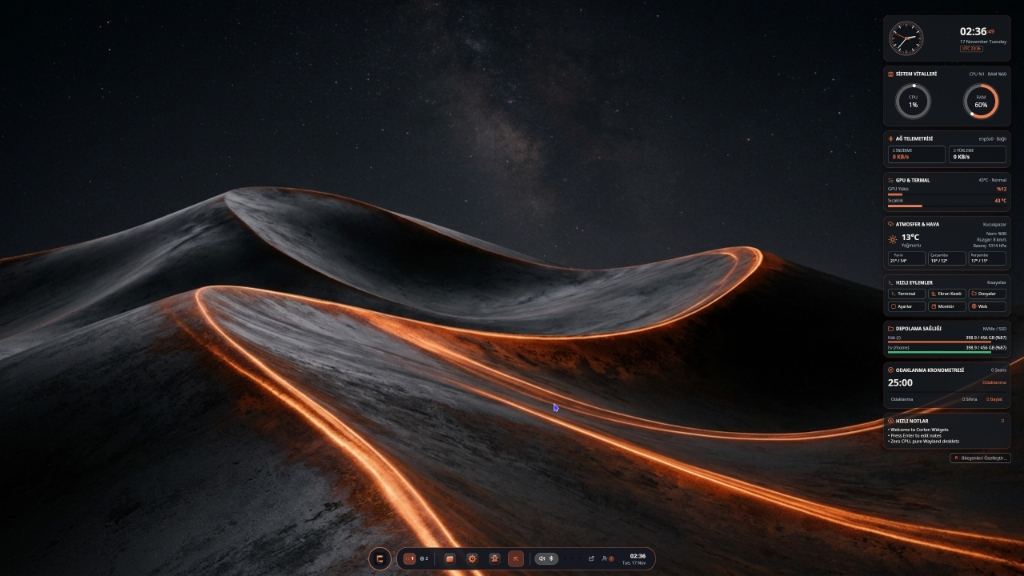
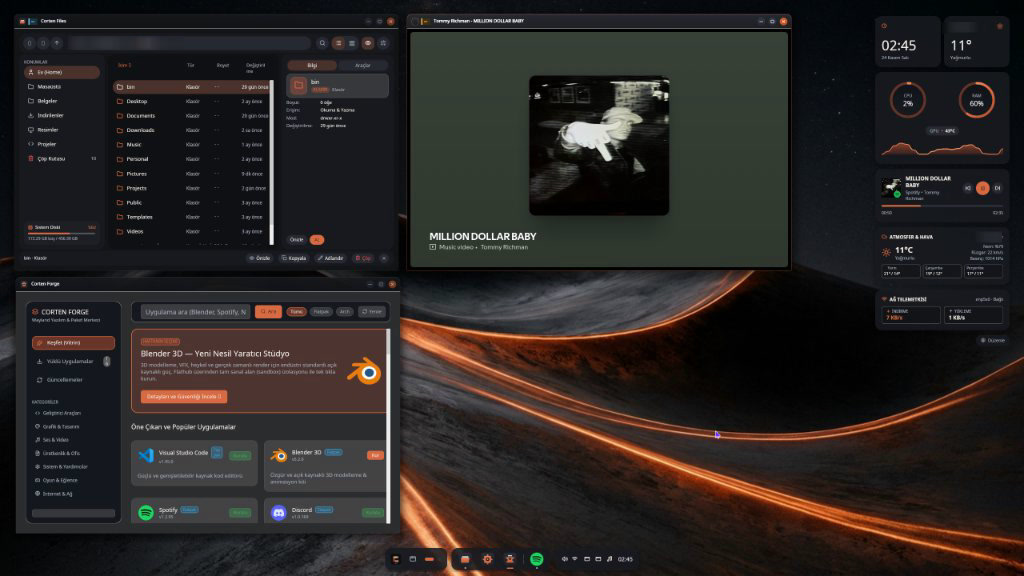
docs: rewrite README, update blurred desktop screenshot, and bump version to 0.7.0

diff --git a/README.md b/README.md
@@ -1,200 +1,125 @@
-<div align="center">
-
-<img src="assets/logo_256.png" alt="Corten Desktop Logo" width="128" />
-
 # Corten Desktop
 
-**A lightweight Wayland desktop environment and compositor written in Rust (Smithay + Iced).**
+A Wayland compositor and desktop shell written in Rust using [Smithay](https://github.com/Smithay/smithay) and [Iced](https://github.com/iced-rs/iced).
 
-[![Version](https://img.shields.io/badge/Release-v0.6.0-d96b43.svg?style=flat-square)](https://github.com/Shura5860/corten-desktop/releases/tag/v0.6.0)
-[![Language](https://img.shields.io/badge/Language-Rust%202024-orange.svg?style=flat-square&logo=rust)](https://www.rust-lang.org)
-[![Display Protocol](https://img.shields.io/badge/Protocol-Wayland-blue.svg?style=flat-square&logo=wayland)](https://wayland.freedesktop.org/)
-[![Compositor Engine](https://img.shields.io/badge/Engine-Smithay%200.7-red.svg?style=flat-square)](https://github.com/Smithay/smithay)
-[![UI Toolkit](https://img.shields.io/badge/Shell%20Toolkit-Iced%200.13%20(tiny--skia)-blueviolet.svg?style=flat-square)](https://github.com/iced-rs/iced)
-[![Clippy](https://img.shields.io/badge/Clippy-Zero%20Warnings-brightgreen.svg?style=flat-square)](#-building-from-source)
-[![License](https://img.shields.io/badge/License-GPL--3.0-green.svg?style=flat-square)](LICENSE)
+![Corten Desktop running on Wayland](assets/screenshots/corten-desktop.jpg)
 
-<br />
+## About
 
-<p align="center">
-  <a href="#-overview">Overview</a> •
-  <a href="#-screenshots">Screenshots</a> •
-  <a href="#-workspace-components">Components</a> •
-  <a href="#-installation">Installation</a> •
-  <a href="#-building-from-source">Build</a> •
-  <a href="#-keyboard-shortcuts">Shortcuts</a>
-</p>
+Corten Desktop is a single-workspace Wayland desktop environment. The compositor (`corten-compositor`) is built on Smithay 0.7 with DRM/KMS and nested winit backends, XWayland support, and both floating and tiling layouts. Shell components and built-in utilities use Iced 0.13 with the `tiny-skia` software renderer to keep idle GPU memory usage low, communicating over D-Bus (`zbus`) and a Unix domain socket (`cortenctl`).
 
----
+This is an independent personal project under active development.
 
-</div>
+### Current Status
 
-<br />
-
-![Corten Desktop Hero](assets/screenshots/corten-desktop.jpg)
-
-<br />
-
-## Overview
-
-Corten Desktop is a full Wayland desktop environment built inside a single Rust Cargo workspace.
-
-The goal of the project is simple: provide a lightweight desktop session where the compositor, panel/dock, lock screen, file manager, settings app, notifications, and desktop utilities all work together out of the box without high resource usage or needing to manually wire together a dozen separate tools and scripts.
-
-* **Compositor (`corten-compositor`):** Built on `Smithay 0.7` with DRM/KMS direct scanout, XWayland support, Dual-Kawase blur shaders, VRR, tearing control, and both floating and tiling window layouts (Master-Stack, BSP, Monocle, and Scrollable strip).
-* **Desktop Shell & Apps (`Iced 0.13`):** Shell surfaces and built-in applications use `Iced` with the `tiny-skia` software renderer so background desktop utilities stay light on system VRAM.
-* **Unified IPC (`corten-ipc`):** Components communicate over D-Bus (`zbus`) and a Unix domain socket controllable via `cortenctl`.
-
-### Development Note
-
-Corten Desktop is an independent personal project built with AI-assisted development tools—especially on the UI/shell side—while architecture, compositor integration, testing, and direction are driven manually. Design feedback, UI/UX suggestions, and compositor reviews are very welcome.
-
----
-
-## Screenshots
-
-### Desktop, Floating Dock & Widgets
-![Corten Clean Desktop](assets/screenshots/corten-desktop.jpg)
-
-### Package Manager (`corten-forge`) & Local Assistant (`corten-ai`)
-![Corten Forge & AURA](assets/screenshots/corten-forge-aura.jpg)
-
-### File Manager (`corten-files`) & System Settings (`corten-settings`)
-![Corten Files & Settings](assets/screenshots/corten-files-settings.jpg)
-
----
+- Tested on Linux with DRM/KMS (TTY session via `corten-session`) and nested inside existing Wayland sessions.
+- Floating, Master-Stack, BSP, Monocle, and Scrollable tiling layouts are implemented.
+- Shell components (3-island dock, control center, app drawer, notifications, MPRIS/telemetry desktop widgets, lock screen, file manager, settings, package manager front-end) run as separate processes supervised by `corten-session`.
+- UI strings are currently primarily in Turkish; full i18n coverage is still in progress.
+- Expect rough edges and breaking config changes between minor releases.
 
 ## Workspace Components
 
-| Crate | Role |
+| Crate | Description |
 | :--- | :--- |
-| `corten-compositor` | Wayland compositor (DRM/KMS + winit nested mode, XWayland, floating & tiling layouts) |
-| `corten-session` | Session supervisor and environment launcher |
-| `corten-panel` | Floating capsule dock, upward app drawer, system tray (SNI), and quick controls |
+| `corten-compositor` | Wayland compositor (Smithay 0.7, DRM/KMS + winit, XWayland, floating & tiling) |
+| `corten-session` | Session supervisor and startup orchestrator |
+| `corten-panel` | Bottom/top 3-island dock, app drawer, SNI system tray, calendar, control center |
+| `corten-widgets` | Desktop side panel (clock, weather, CPU/RAM/GPU telemetry, D-Bus MPRIS player, network) |
 | `corten-launcher` | Application launcher, calculator, clipboard history, and file search |
-| `corten-lock` | `ext-session-lock-v1` lock screen with PAM authentication |
-| `corten-greeter` | `greetd` login screen |
-| `corten-files` | Dual-pane file manager with quick preview and integrated terminal drawer |
-| `corten-settings` | System settings (display topology, audio, network, Bluetooth, themes, keybindings) |
-| `corten-notify` | Desktop notification daemon (`org.freedesktop.Notifications`) |
-| `corten-widgets` | Desktop widgets (clock, weather, media player, GPU/system monitor, pomodoro) |
-| `corten-wallpaper` | Wallpaper daemon with multi-monitor support |
-| `corten-snipper` | Region screenshot and annotation tool |
-| `corten-monitor` | Process and system resource monitor |
-| `corten-forge` | Package manager front-end for Flatpak, Arch packages, and updates |
+| `corten-files` | File manager with list/grid/column views, split pane, quick preview, and terminal drawer |
+| `corten-settings` | Settings app (appearance, panel, widgets, displays, audio, network/Bluetooth, input, shortcuts) |
+| `corten-notify` | `org.freedesktop.Notifications` daemon |
+| `corten-lock` | `ext-session-lock-v1` lock screen (PAM) |
+| `corten-greeter` | `greetd` login greeter |
+| `corten-wallpaper` | Multi-monitor wallpaper daemon |
+| `corten-snipper` | Region screenshot tool |
+| `corten-monitor` | System and process monitor |
+| `corten-forge` | Front-end for Flatpak and Arch package management |
 | `corten-portal` / `corten-polkit` | XDG Desktop Portal backend and Polkit authentication agent |
-| `corten-ai` / `crates/llm` / `crates/vector` | Optional local assistant and GGUF inference helpers |
-| `crates/ipc` (`cortenctl`) | CLI tool for controlling the compositor, querying windows, and running `cortenctl doctor` |
-
----
-
-## Installation
-
-### Quick Install (Arch Linux)
-
-```bash
-./scripts/quick-install.sh
-```
-
-### Distribution Packages (`v0.6.0`)
-
-* **Arch Linux (PKGBUILD):**
-  ```bash
-  cd packaging/arch && makepkg -si
-  ```
-* **NixOS / Nix Flake:**
-  ```bash
-  nix build github:Shura5860/corten-desktop
-  ```
-* **Precompiled Binary Install:**
-  ```bash
-  curl -fsSL https://raw.githubusercontent.com/Shura5860/corten-desktop/main/scripts/install-release-bin.sh | sudo bash
-  ```
-* **Debian / Ubuntu (`.deb` builder):**
-  ```bash
-  ./packaging/debian/build-deb.sh 0.6.0
-  sudo dpkg -i target/debian/corten-desktop_0.6.0_*.deb
-  ```
-* **Fedora / RHEL (RPM Spec):**
-  ```bash
-  rpmbuild -ba packaging/rpm/corten-desktop.spec
-  ```
-
----
+| `corten-ai` | Optional local LLM client (Ollama / GGUF) |
+| `crates/ipc` (`cortenctl`) | CLI for compositor IPC queries, actions, and `cortenctl doctor` |
 
 ## Building from Source
 
-### System Prerequisites
+### Dependencies
 
-* **Arch Linux / Manjaro:**
-  ```bash
-  sudo pacman -S base-devel rust clang wayland libxkbcommon libseat systemd mesa libinput pipewire wireplumber pam brightnessctl wl-clipboard
-  ```
+**Arch Linux:**
 
-* **Ubuntu / Debian:**
-  ```bash
-  sudo apt install build-essential pkg-config cargo clang libclang-dev llvm-dev libwayland-dev libxkbcommon-dev libseat-dev libudev-dev libgbm-dev libdrm-dev libegl1-mesa-dev libgles2-mesa-dev libinput-dev libpam0g-dev libpipewire-0.3-dev libspa-0.2-dev libdbus-1-dev wl-clipboard
-  ```
+```bash
+sudo pacman -S base-devel rust clang wayland libxkbcommon libseat systemd mesa libinput pipewire wireplumber pam brightnessctl wl-clipboard
+```
 
-* **Fedora:**
-  ```bash
-  sudo dnf install @development-tools rust cargo clang clang-devel wayland-devel libxkbcommon-devel libseat-devel systemd-devel mesa-libEGL-devel mesa-libGLES-devel libinput-devel pam-devel pipewire-devel wl-clipboard
-  ```
+**Debian / Ubuntu:**
 
-### Compile & Install
+```bash
+sudo apt install build-essential pkg-config cargo clang libclang-dev llvm-dev libwayland-dev libxkbcommon-dev libseat-dev libudev-dev libgbm-dev libdrm-dev libegl1-mesa-dev libgles2-mesa-dev libinput-dev libpam0g-dev libpipewire-0.3-dev libspa-0.2-dev libdbus-1-dev wl-clipboard
+```
+
+**Fedora:**
+
+```bash
+sudo dnf install @development-tools rust cargo clang clang-devel wayland-devel libxkbcommon-devel libseat-devel systemd-devel mesa-libEGL-devel mesa-libGLES-devel libinput-devel pam-devel pipewire-devel wl-clipboard
+```
+
+### Build & Install
 
 ```bash
 git clone https://github.com/Shura5860/corten-desktop.git
 cd corten-desktop
 
-# Run tests and clippy checks
-cargo test --workspace
-cargo clippy --workspace --all-targets -- -D warnings
-
-# Build release binaries and install session files
 cargo build --release --workspace
 sudo ./install.sh
 ```
 
-Once installed, you can select **Corten Desktop** from your display manager, enable the built-in greeter with `sudo corten-enable-greeter`, or launch directly from a TTY with `corten-session`.
+After installation, pick **Corten Desktop** from your display manager, or start directly from a TTY:
 
-You can also verify system dependencies and hardware setup anytime with:
+```bash
+corten-session
+```
+
+To test a local build from a TTY without installing system-wide:
+
+```bash
+PATH="$PWD/target/release:$PATH" ./target/release/corten-session
+```
+
+Check environment and hardware readiness:
 
 ```bash
 cortenctl doctor
 ```
 
----
+### Packaging
 
-## Keyboard Shortcuts
+Packaging definitions are available in [`packaging/`](packaging/):
+- Arch Linux: `cd packaging/arch && makepkg -si`
+- Nix: `nix build github:Shura5860/corten-desktop`
+- Debian: `./packaging/debian/build-deb.sh 0.7.0`
+- Fedora: `rpmbuild -ba packaging/rpm/corten-desktop.spec`
 
-Keybindings can be customized in `~/.config/corten/corten.toml`:
+## Default Keybindings
 
-| Shortcut | Description |
+Configured in `~/.config/corten/compositor.toml`:
+
+| Shortcut | Action |
 | :--- | :--- |
-| <kbd>Super</kbd> + <kbd>Return</kbd> | Launch default terminal (`alacritty`, `foot`, `kitty`) |
-| <kbd>Super</kbd> + <kbd>Space</kbd> | Open application launcher (`corten-launcher`) |
-| <kbd>Super</kbd> + <kbd>Alt</kbd> + <kbd>Space</kbd> | Open local assistant HUD (`corten-ai`) |
-| <kbd>Super</kbd> + <kbd>E</kbd> | Open file manager (`corten-files`) |
-| <kbd>Super</kbd> + <kbd>I</kbd> | Open system settings (`corten-settings`) |
-| <kbd>Super</kbd> + <kbd>W</kbd> | Toggle window overview / Exposé |
-| <kbd>Super</kbd> + <kbd>D</kbd> | Toggle Show Desktop |
-| <kbd>Super</kbd> + <kbd>Shift</kbd> + <kbd>S</kbd> | Region screenshot with annotation editor (`corten-snipper`) |
-| <kbd>Super</kbd> + <kbd>.</kbd> | Built-in Emoji & Unicode picker |
-| <kbd>Super</kbd> + <kbd>Shift</kbd> + <kbd>C</kbd> | Color picker (`#RRGGBB` to clipboard) |
-| <kbd>Super</kbd> + <kbd>-</kbd> / <kbd>Super</kbd> + <kbd>Shift</kbd> + <kbd>-</kbd> | Toggle scratchpad / Move active window to scratchpad |
-| <kbd>Super</kbd> + <kbd>S</kbd> | Pin active window across all workspaces (Sticky / PiP) |
-| <kbd>Super</kbd> + <kbd>G</kbd> | Toggle Game Mode (VRR + Tearing + Blur Bypass + DND) |
-| <kbd>Super</kbd> + <kbd>=</kbd> / <kbd>Super</kbd> + <kbd>Ctrl</kbd> + <kbd>Scroll</kbd> | Screen magnifier zoom in / out (`Super + 0` resets) |
-| <kbd>Super</kbd> + <kbd>[</kbd> / <kbd>Super</kbd> + <kbd>]</kbd> | Scroll left / right in Scrollable Tiling layout |
-| <kbd>Super</kbd> + <kbd>R</kbd> | Cycle scrollable column width (`33%` / `50%` / `66%` / `100%`) |
-| <kbd>PrtScn</kbd> | Fullscreen screenshot (saved to `~/Pictures/` & clipboard) |
-| <kbd>Super</kbd> + <kbd>1</kbd> .. <kbd>9</kbd> | Switch to workspace `1..9` |
-| <kbd>Super</kbd> + <kbd>Shift</kbd> + <kbd>1</kbd> .. <kbd>9</kbd> | Move active window to workspace `1..9` |
-| <kbd>Ctrl</kbd> + <kbd>Alt</kbd> + <kbd>Backspace</kbd> | Emergency session exit to TTY (when unlocked) |
+| `Super + Return` | Open terminal |
+| `Super + Space` | Open application launcher |
+| `Super + E` | Open file manager (`corten-files`) |
+| `Super + I` | Open settings (`corten-settings`) |
+| `Super + W` | Window overview |
+| `Super + D` | Show desktop |
+| `Super + Shift + S` | Region screenshot (`corten-snipper`) |
+| `Super + 1..9` | Switch workspace |
+| `Super + Shift + 1..9` | Move window to workspace |
+| `Super + G` | Toggle Game Mode (VRR / tearing / DND) |
+| `Ctrl + Alt + Backspace` | Exit session to TTY (when unlocked) |
 
----
+## Development Note
+
+AI coding assistants were used during development—primarily for UI boilerplate and refactoring—alongside manual architecture decisions, compositor integration, and TTY hardware testing. Bug reports, code reviews, and pull requests are welcome.
 
 ## License
 
-Licensed under the **GNU General Public License v3.0** ([LICENSE](LICENSE)).
+Licensed under the GNU General Public License v3.0. See [LICENSE](LICENSE).
